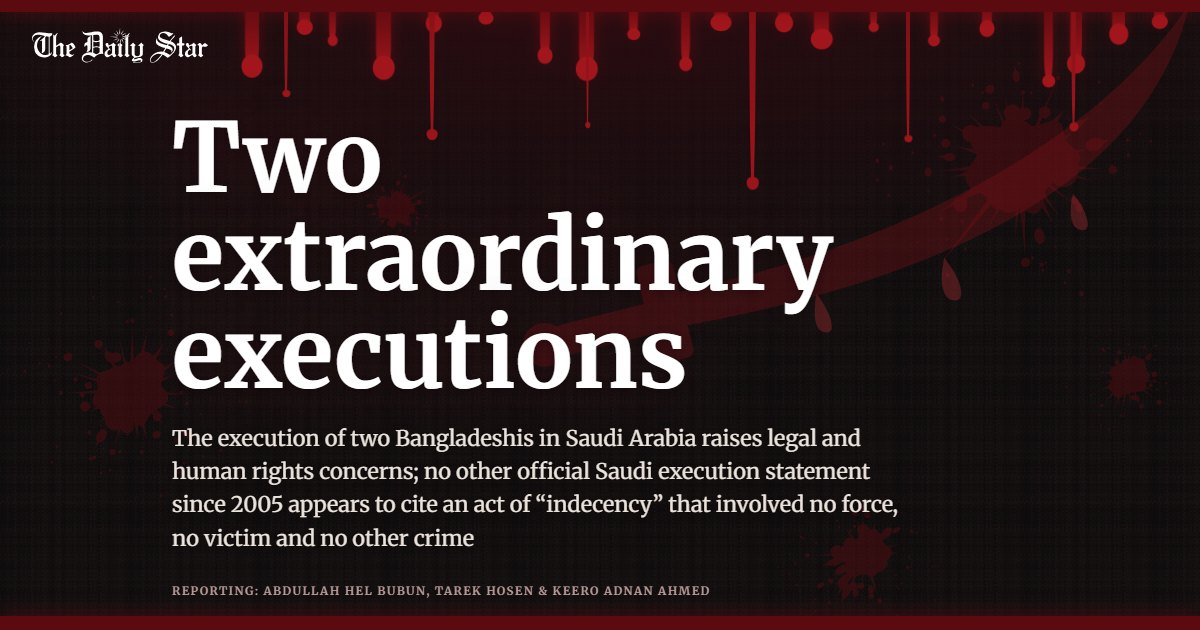
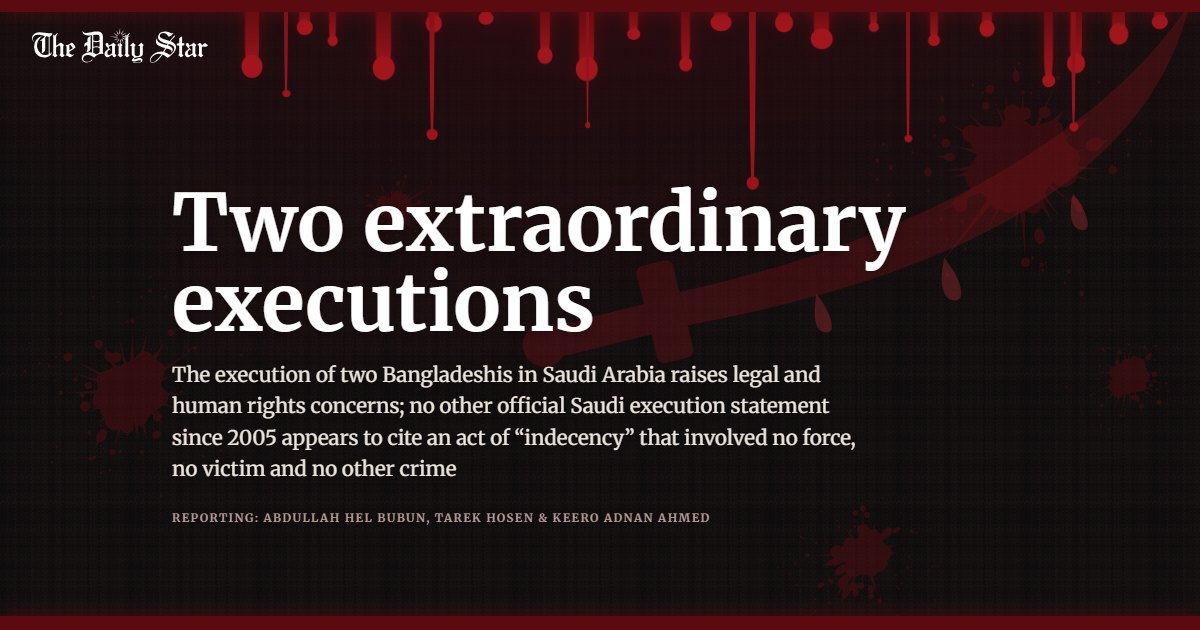
Hero fits every screen height; three copy fixes
- Hero type is still sized by width but now capped by height (title 12.5vh, dek 2.7px + 2.8vh
  with a .9rem floor, gaps in vh), top padding floor 76px, and more bottom padding under ~560px
  tall. The byline is on screen at first load at 27 sizes from 320x460 to 2560x1300; portrait
  phones and tall desktops are unchanged. Share images re-shot.
- Scene 1 last card "no victim"; scene 2 card 2 full stop; the SPA archive paragraph ends at
  "comparable offence."

Changed region(s): [[0.1233, 0.181, 0.7708, 0.8746], [0.1542, 0.9048, 0.5858, 0.9651]]

diff --git a/index.html b/index.html
@@ -52,7 +52,7 @@
 <meta name="twitter:description" content="A Daily Star analysis of 665 Saudi government execution statements between January 2024 and 20 October 2026 reveals that the execution of Nazrul and Sweety was extremely unusual.">
 <meta name="twitter:image" content="https://campaign.thedailystar.net/saudi-execution/img/share.jpg">
 <meta name="twitter:image:alt" content="The story’s opening screen: the headline Two extraordinary executions, the standfirst and the byline over blood drips, splatters and a sword">
-<script type="application/ld+json">{"@context": "https://schema.org", "@type": "NewsArticle", "mainEntityOfPage": {"@type": "WebPage", "@id": "https://campaign.thedailystar.net/saudi-execution/"}, "url": "https://campaign.thedailystar.net/saudi-execution/", "headline": "Two extraordinary executions", "alternativeHeadline": "The execution of two Bangladeshis in Saudi Arabia raises legal and human rights concerns; no other official Saudi execution statement since 2005 appears to cite an act of “indecency” that involved no force, no victim and no other crime", "description": "A Daily Star analysis of 665 Saudi government execution statements between January 2024 and 20 October 2026 reveals that the execution of Nazrul and Sweety was extremely unusual.", "image": ["https://campaign.thedailystar.net/saudi-execution/img/share-16x9.jpg", "https://campaign.thedailystar.net/saudi-execution/img/share-4x3.jpg", "https://campaign.thedailystar.net/saudi-execution/img/share-1x1.jpg", "https://campaign.thedailystar.net/saudi-execution/img/share.jpg"], "thumbnailUrl": "https://campaign.thedailystar.net/saudi-execution/img/share.jpg", "datePublished": "2026-10-29T00:00:00+06:00", "dateModified": "2026-10-29T00:00:00+06:00", "inLanguage": "en", "isAccessibleForFree": true, "articleSection": "Investigation", "keywords": ["Saudi Arabia executions", "Saudi Arabia death penalty", "Bangladeshi executed in Saudi Arabia", "Nazrul Islam Abdul Basir", "Sweety Akhtar", "Nazrul and Sweety execution", "fahisha", "indecency execution Makkah", "ta'zir", "qisas", "hudud", "Saudi Interior Ministry", "Saudi war on drugs", "drug-related executions", "captagon", "foreign nationals executed in Saudi Arabia", "migrant workers Saudi Arabia", "Bangladeshi migrants", "Amnesty International", "Reprieve", "European Saudi Organization for Human Rights", "most serious crimes international law", "Islamic law death penalty", "Saudi executions 2025", "Saudi executions 2026", "The Daily Star investigation"], "author": [{"@type": "Person", "name": "Abdullah Hel Bubun"}, {"@type": "Person", "name": "Tarek Hosen"}, {"@type": "Person", "name": "Keero Adnan Ahmed"}], "contributor": [{"@type": "Person", "name": "Mir Rownak"}], "publisher": {"@type": "NewsMediaOrganization", "name": "The Daily Star", "url": "https://www.thedailystar.net/", "logo": {"@type": "ImageObject", "url": "https://campaign.thedailystar.net/saudi-execution/img/logo.png", "width": 600, "height": 60}, "sameAs": ["https://www.facebook.com/dailystarnews", "https://x.com/dailystarnews", "https://www.youtube.com/channel/UCKSJ5rTXq-pYgAmAOhVS_zQ", "https://www.instagram.com/dailystar_bd/", "https://www.linkedin.com/company/thedailystar/"]}, "contentLocation": {"@type": "Place", "name": "Makkah, Saudi Arabia"}, "wordCount": 2430, "copyrightYear": 2026, "copyrightHolder": {"@type": "NewsMediaOrganization", "name": "The Daily Star"}, "about": [{"@type": "Thing", "name": "Capital punishment in Saudi Arabia"}, {"@type": "Thing", "name": "Bangladeshi migrant workers"}], "mentions": [{"@type": "Person", "name": "Nazrul Islam Abdul Basir"}, {"@type": "Person", "name": "Sweety Akhtar"}, {"@type": "Organization", "name": "Amnesty International"}, {"@type": "Organization", "name": "Reprieve"}, {"@type": "Organization", "name": "European Saudi Organization for Human Rights"}, {"@type": "GovernmentOrganization", "name": "Ministry of Interior, Saudi Arabia"}]}</script>
+<script type="application/ld+json">{"@context": "https://schema.org", "@type": "NewsArticle", "mainEntityOfPage": {"@type": "WebPage", "@id": "https://campaign.thedailystar.net/saudi-execution/"}, "url": "https://campaign.thedailystar.net/saudi-execution/", "headline": "Two extraordinary executions", "alternativeHeadline": "The execution of two Bangladeshis in Saudi Arabia raises legal and human rights concerns; no other official Saudi execution statement since 2005 appears to cite an act of “indecency” that involved no force, no victim and no other crime", "description": "A Daily Star analysis of 665 Saudi government execution statements between January 2024 and 20 October 2026 reveals that the execution of Nazrul and Sweety was extremely unusual.", "image": ["https://campaign.thedailystar.net/saudi-execution/img/share-16x9.jpg", "https://campaign.thedailystar.net/saudi-execution/img/share-4x3.jpg", "https://campaign.thedailystar.net/saudi-execution/img/share-1x1.jpg", "https://campaign.thedailystar.net/saudi-execution/img/share.jpg"], "thumbnailUrl": "https://campaign.thedailystar.net/saudi-execution/img/share.jpg", "datePublished": "2026-10-29T00:00:00+06:00", "dateModified": "2026-10-29T00:00:00+06:00", "inLanguage": "en", "isAccessibleForFree": true, "articleSection": "Investigation", "keywords": ["Saudi Arabia executions", "Saudi Arabia death penalty", "Bangladeshi executed in Saudi Arabia", "Nazrul Islam Abdul Basir", "Sweety Akhtar", "Nazrul and Sweety execution", "fahisha", "indecency execution Makkah", "ta'zir", "qisas", "hudud", "Saudi Interior Ministry", "Saudi war on drugs", "drug-related executions", "captagon", "foreign nationals executed in Saudi Arabia", "migrant workers Saudi Arabia", "Bangladeshi migrants", "Amnesty International", "Reprieve", "European Saudi Organization for Human Rights", "most serious crimes international law", "Islamic law death penalty", "Saudi executions 2025", "Saudi executions 2026", "The Daily Star investigation"], "author": [{"@type": "Person", "name": "Abdullah Hel Bubun"}, {"@type": "Person", "name": "Tarek Hosen"}, {"@type": "Person", "name": "Keero Adnan Ahmed"}], "contributor": [{"@type": "Person", "name": "Mir Rownak"}], "publisher": {"@type": "NewsMediaOrganization", "name": "The Daily Star", "url": "https://www.thedailystar.net/", "logo": {"@type": "ImageObject", "url": "https://campaign.thedailystar.net/saudi-execution/img/logo.png", "width": 600, "height": 60}, "sameAs": ["https://www.facebook.com/dailystarnews", "https://x.com/dailystarnews", "https://www.youtube.com/channel/UCKSJ5rTXq-pYgAmAOhVS_zQ", "https://www.instagram.com/dailystar_bd/", "https://www.linkedin.com/company/thedailystar/"]}, "contentLocation": {"@type": "Place", "name": "Makkah, Saudi Arabia"}, "wordCount": 2415, "copyrightYear": 2026, "copyrightHolder": {"@type": "NewsMediaOrganization", "name": "The Daily Star"}, "about": [{"@type": "Thing", "name": "Capital punishment in Saudi Arabia"}, {"@type": "Thing", "name": "Bangladeshi migrant workers"}], "mentions": [{"@type": "Person", "name": "Nazrul Islam Abdul Basir"}, {"@type": "Person", "name": "Sweety Akhtar"}, {"@type": "Organization", "name": "Amnesty International"}, {"@type": "Organization", "name": "Reprieve"}, {"@type": "Organization", "name": "European Saudi Organization for Human Rights"}, {"@type": "GovernmentOrganization", "name": "Ministry of Interior, Saudi Arabia"}]}</script>
 <link rel="icon" href="img/favicon.ico" sizes="16x16">
 <link rel="sitemap" type="application/xml" title="Sitemap" href="sitemap.xml">
 <link rel="preload" href="fonts/merriweather-700.woff2" as="font" type="font/woff2" crossorigin>
@@ -126,13 +126,16 @@ h1,h2,h3{text-wrap:balance}
 .masthead a{display:block;color:#fff}
 .masthead .tds-logo{display:block;width:var(--logo-w);height:calc(var(--logo-w) * .1986);fill:currentColor}
 
-.hero__body{position:relative;z-index:2;flex:1 0 auto;display:flex;flex-direction:column;justify-content:center;width:100%;max-width:1000px;margin:0 auto;padding:max(17vh,104px) 6vw 4vh;padding:max(17svh,104px) 6vw 4svh}
+/* the title block must end above the fold on every screen: sizes follow the width, and are capped by the height
+   (12.5vh title, vh-led dek and gaps) so short laptop windows and phones held sideways still show the byline;
+   under ~560px tall the bottom padding grows, because the hero's extra 12vh sits below the fold */
+.hero__body{position:relative;z-index:2;flex:1 0 auto;display:flex;flex-direction:column;justify-content:center;width:100%;max-width:1000px;margin:0 auto;padding:max(17vh,76px) 6vw max(4vh,90px - 12vh);padding:max(17svh,76px) 6vw max(4svh,90px - 12svh)}
 @media (max-width:699px){.hero__body{padding-left:var(--gutter);padding-right:var(--gutter)}}
-h1{font-size:clamp(2.6rem,8vw,6rem);line-height:1.02;margin:0 0 1.1rem;color:#fff;text-shadow:0 0 60px rgba(90,18,24,.4),0 2px 12px rgba(8,5,6,.6);font-weight:700}
+h1{font-size:clamp(min(2.6rem,12.5vh),min(8vw,12.5vh),6rem);font-size:clamp(min(2.6rem,12.5svh),min(8vw,12.5svh),6rem);line-height:1.02;margin:0 0 min(1.1rem,2.6vh);color:#fff;text-shadow:0 0 60px rgba(90,18,24,.4),0 2px 12px rgba(8,5,6,.6);font-weight:700}
 h1:focus{outline:0}
 /* “extraordinary” is one long word: on narrow phones size the title to the screen so it never clips */
-@media (max-width:420px){h1{font-size:10.2vw}}
-.dek{max-width:34em;margin:0 0 1.6rem;font-size:clamp(1.05rem,.95rem + .6vw,1.35rem);line-height:1.55;color:var(--ink);text-shadow:0 2px 12px rgba(8,5,6,.7)}
+@media (max-width:420px){h1{font-size:min(10.2vw,12.5vh);font-size:min(10.2vw,12.5svh)}}
+.dek{max-width:34em;margin:0 0 min(1.6rem,3.6vh);font-size:max(.9rem,min(clamp(1.05rem,.95rem + .6vw,1.35rem),2.7px + 2.8vh));font-size:max(.9rem,min(clamp(1.05rem,.95rem + .6vw,1.35rem),2.7px + 2.8svh));line-height:1.55;color:var(--ink);text-shadow:0 2px 12px rgba(8,5,6,.7)}
 
 .by{font:700 .72rem/1.8 var(--serif);letter-spacing:.12em;text-transform:uppercase;color:var(--dim);margin:0}
 
@@ -396,9 +399,9 @@ dialog.prm::backdrop{background:rgba(0,0,0,.8)}
 <div class="txt"><p>Nazrul Islam Abdul Basir and Sweety Akhtar left Bangladesh for Saudi Arabia in 2022, hoping for a better life. Both used to work as cleaners for a Saudi company called AL-Majal to support their families back home.</p>
 <p>On October 14 this year, the Saudi authorities executed them for committing an act of <mark class="r">‘fahisha’ or gross sexual indecency</mark>, inside a mosque in Makkah. The term al-fahisha encompasses a range of sexual offenses including adultery, fornication, indecent exposure, or severe harassment.</p>
 <p>In a <button type="button" class="prl" id="prOpen" aria-haspopup="dialog">statement</button> announcing the executions, the Saudi Interior Ministry said the punishment reflected the “seriousness and gravity” of the crime which it said violated the <mark class="r">“sanctity of the time and place”</mark>. However, a Daily Star analysis of 665 Saudi government execution statements between January 2024 and 20 October 2026 reveals that the execution was extremely unusual.</p></div>
-<section class="scrolly" id="s1"><div class="sticky"><div class="chart"><div class="legw"><div class="leg" aria-hidden="true"></div></div><div class="plot"><canvas role="img" aria-label="Dot chart: each of the 887 people executed in Saudi Arabia from January 2024 to 20 October 2026, coloured by offence"></canvas><span class="lab"></span><span class="lab"></span></div></div></div><div class="steps"><div class="step"><p>Each icon represents one of the 887 people Saudi Arabia executed over the past three years. Only China and Iran executed more during this period. Rights groups believe the real number is even higher, due to a lack of transparency in Saudi’s official reporting.</p></div><div class="step"><p>Drug-related offences — which right groups stress fail to meet the international legal threshold of a “most serious crime”— accounted for more than half of the executions (<mark class="k k-d">53.78 pc</mark>) carried out.</p></div><div class="step"><p>Murder convictions were responsible for another <mark class="k k-m">34 percent</mark>, often coupled with other charges such as armed robbery and kidnapping.</p></div><div class="step"><p>Armed robbery, terrorism, rape, kidnapping, treason and gross sexual misconduct or al-fahisha accounted for another <mark class="k k-o">12 percent</mark>.</p></div><div class="step"><p>The kingdom executed <mark class="k k-s">15 individuals</mark> for al-fahisha or sexual offenses during this period.</p></div><div class="step"><p>Out of those, <mark class="k k-s">13 cases</mark> involved rape or sexual assault—frequently accompanied by violent charges such as murder, kidnapping, or robbery.</p></div><div class="step"><p>Only two individuals—Nazrul and Sweety—were put to death for an act of <mark class="g">fahisha</mark> that involved no victims, force, or additional crimes.</p></div></div></section>
+<section class="scrolly" id="s1"><div class="sticky"><div class="chart"><div class="legw"><div class="leg" aria-hidden="true"></div></div><div class="plot"><canvas role="img" aria-label="Dot chart: each of the 887 people executed in Saudi Arabia from January 2024 to 20 October 2026, coloured by offence"></canvas><span class="lab"></span><span class="lab"></span></div></div></div><div class="steps"><div class="step"><p>Each icon represents one of the 887 people Saudi Arabia executed over the past three years. Only China and Iran executed more during this period. Rights groups believe the real number is even higher, due to a lack of transparency in Saudi’s official reporting.</p></div><div class="step"><p>Drug-related offences — which right groups stress fail to meet the international legal threshold of a “most serious crime”— accounted for more than half of the executions (<mark class="k k-d">53.78 pc</mark>) carried out.</p></div><div class="step"><p>Murder convictions were responsible for another <mark class="k k-m">34 percent</mark>, often coupled with other charges such as armed robbery and kidnapping.</p></div><div class="step"><p>Armed robbery, terrorism, rape, kidnapping, treason and gross sexual misconduct or al-fahisha accounted for another <mark class="k k-o">12 percent</mark>.</p></div><div class="step"><p>The kingdom executed <mark class="k k-s">15 individuals</mark> for al-fahisha or sexual offenses during this period.</p></div><div class="step"><p>Out of those, <mark class="k k-s">13 cases</mark> involved rape or sexual assault—frequently accompanied by violent charges such as murder, kidnapping, or robbery.</p></div><div class="step"><p>Only two individuals—Nazrul and Sweety—were put to death for an act of <mark class="g">fahisha</mark> that involved no victim, force, or additional crimes.</p></div></div></section>
 <div class="txt">
-<p>The Saudi Interior Ministry has published execution statements through the Saudi Press Agency since at least <a href="https://www.spa.gov.sa/274662" target="_blank" rel="noopener">2005</a>. The Daily Star’s analysis covers only the past three years, but a further search of more than two decades of these statements, using combinations of Arabic keywords (<a href="#methodology">see Methodology Note</a>), found no other execution for a comparable offence: an act of fahisha that involved no force, no victim and no other crime.</p>
+<p>The Saudi Interior Ministry has published execution statements through the Saudi Press Agency since at least <a href="https://www.spa.gov.sa/274662" target="_blank" rel="noopener">2005</a>. The Daily Star’s analysis covers only the past three years, but a further search of more than two decades of these statements, using combinations of Arabic keywords (<a href="#methodology">see Methodology Note</a>), found no other execution for a comparable offence.</p>
 <p>Duaa Dhainy, a researcher at Berlin-based <a href="https://worldcoalition.org/membre/european-saudi-organization-for-human-rights-esohr/" target="_blank" rel="noopener">European Saudi Organization for Human Rights</a> (ESOHR), called the death penalty for such a non-violent act of indecency “deeply alarming”.</p>
 <p>“The offence (for which Nazrul and Sweety were executed) falls far outside the threshold of the “most serious crimes” under international law, which is restricted to crimes involving intentional killing,” she told this newspaper on October 26.</p>
 <p>Media reports reviewed by this newspaper also show that similar offences in Saudi Arabia received far lighter sentences for both Saudi and non-Saudi individuals. In <a href="https://english.ahram.org.eg/UI/Front/Inner.aspx?NewsContentID=60650" target="_blank" rel="noopener">a 2012 case</a>, for instance, the court sentenced a 54-year-old Saudi national to four months in prison, 70 lashes and a pledge to never commit a crime. The man, according to reports, engaged in an indecent act with a 24-year-old woman inside a mosque in Madina called Masjid al-Nabawī.</p>
@@ -434,7 +437,7 @@ dialog.prm::backdrop{background:rgba(0,0,0,.8)}
 <p>For years, human rights groups have called on the Saudi government to put an end to ta’zir executions, as these are not explicitly mandated by Shariah.</p>
 <p>Judges in Saudi Arabia have repeatedly used their discretionary powers (ta’zir) to increase the <mark class="y">severity of punishments</mark>, including by imposing the death penalty, according to a 2025 Amnesty International report.</p>
 <p>The right group also found that ta’zir was the basis for almost half of all (47.5 percent) of all reported executions between January 2014 and January 2025. The Daily Star’s analysis shows that ta’zir-based executions, particularly of non-Saudi nationals, have risen even more steeply over the past three years, with two-thirds capital punishment carried out under this category.</p></div>
-<section class="scrolly" id="s2"><div class="sticky"><div class="chart"><div class="legw"><div class="leg" aria-hidden="true"></div></div><div class="plot"><canvas role="img" aria-label="Dot chart: each of the 887 people executed in Saudi Arabia from January 2024 to 20 October 2026, coloured by punishment category, then the 439 foreign nationals alone"></canvas></div></div></div><div class="steps"><div class="step"><p>Each icon represents one person executed by Saudi authorities between January 2024 and October 2026 (887)</p></div><div class="step"><p>Of the 887 people executed, <mark class="k k-t">64 percent</mark> were under ta’zir</p></div><div class="step"><p><mark class="k k-q">23 percent</mark> under qisas and <mark class="k k-h">8 percent</mark> under hudud.</p></div><div class="step"><p>Now consider only the foreign nationals executed (439)</p></div><div class="step"><p>An overwhelming <mark class="k k-t">85 percent</mark> of them were executed under ta’zir. Qisas and hudud accounted for the remaining 15 percent.</p></div></div></section>
+<section class="scrolly" id="s2"><div class="sticky"><div class="chart"><div class="legw"><div class="leg" aria-hidden="true"></div></div><div class="plot"><canvas role="img" aria-label="Dot chart: each of the 887 people executed in Saudi Arabia from January 2024 to 20 October 2026, coloured by punishment category, then the 439 foreign nationals alone"></canvas></div></div></div><div class="steps"><div class="step"><p>Each icon represents one person executed by Saudi authorities between January 2024 and October 2026 (887)</p></div><div class="step"><p>Of the 887 people executed, <mark class="k k-t">64 percent</mark> were under ta’zir.</p></div><div class="step"><p><mark class="k k-q">23 percent</mark> under qisas and <mark class="k k-h">8 percent</mark> under hudud.</p></div><div class="step"><p>Now consider only the foreign nationals executed (439)</p></div><div class="step"><p>An overwhelming <mark class="k k-t">85 percent</mark> of them were executed under ta’zir. Qisas and hudud accounted for the remaining 15 percent.</p></div></div></section>
 <div class="txt"><h2>Saudi’s ‘war on drugs’</h2>
 <p>Nazrul and Sweety were executed at a time when Saudi Arabia was putting people to death at a pace not seen in decades. The Kingdom executed 356 people in 2025, highest since at least 1990. So far this year, as of October 20, Saudi Arabia has executed at least 186 people, according to this analysis.</p>
 <p>Drug offenses (drug smuggling and trafficking) alone are responsible for nearly two-thirds (65%) of all executions in 2025 and 2026. According to <a href="https://reprieve.org.uk/" target="_blank" rel="noopener">Reprieve</a>, a UK-based human rights organisation, nearly all of these offences are of non-violent nature.</p>

diff --git a/HANDOVER.md b/HANDOVER.md
@@ -1,6 +1,14 @@
 # Handover: Two extraordinary executions (2026-10-28)
 
 ## What changed and why
+- **Hero fits every screen (Mir, 2026-10-29):** with the four-line dek the byline fell below the fold on short
+  screens (1280x600, 1366x625, phones held sideways, 320x480). Title is now capped at 12.5vh, the dek at
+  2.7px + 2.8vh (floor .9rem), the gaps by vh; the top padding floor is 76px (was 104); under ~560px tall the bottom
+  padding grows (max(4vh, 90px - 12vh)), as the hero's extra 12vh is below the fold. Each has an svh twin. Checked
+  27 sizes from 320x460 to 2560x1300: byline on screen in all, no overlap with the logo; phones in portrait and
+  tall desktops are unchanged. Share images re-shot (the 630px card now has a smaller title).
+- **Copy (Mir, 2026-10-29):** scene 1 last card "no victims" → "no victim"; scene 2 card 2 gets a full stop; the
+  SPA archive paragraph ends at "comparable offence." (the "an act of fahisha…" clause is cut). wordCount 2415.
 - **Dek and credit (Mir, 2026-10-29):** dek (hero + JSON-LD alternativeHeadline) now "The execution of two
   Bangladeshis in Saudi Arabia raises legal and human rights concerns; no other official Saudi execution statement
   since 2005 appears to cite an act of “indecency” that involved no force, no victim and no other crime". It claims
